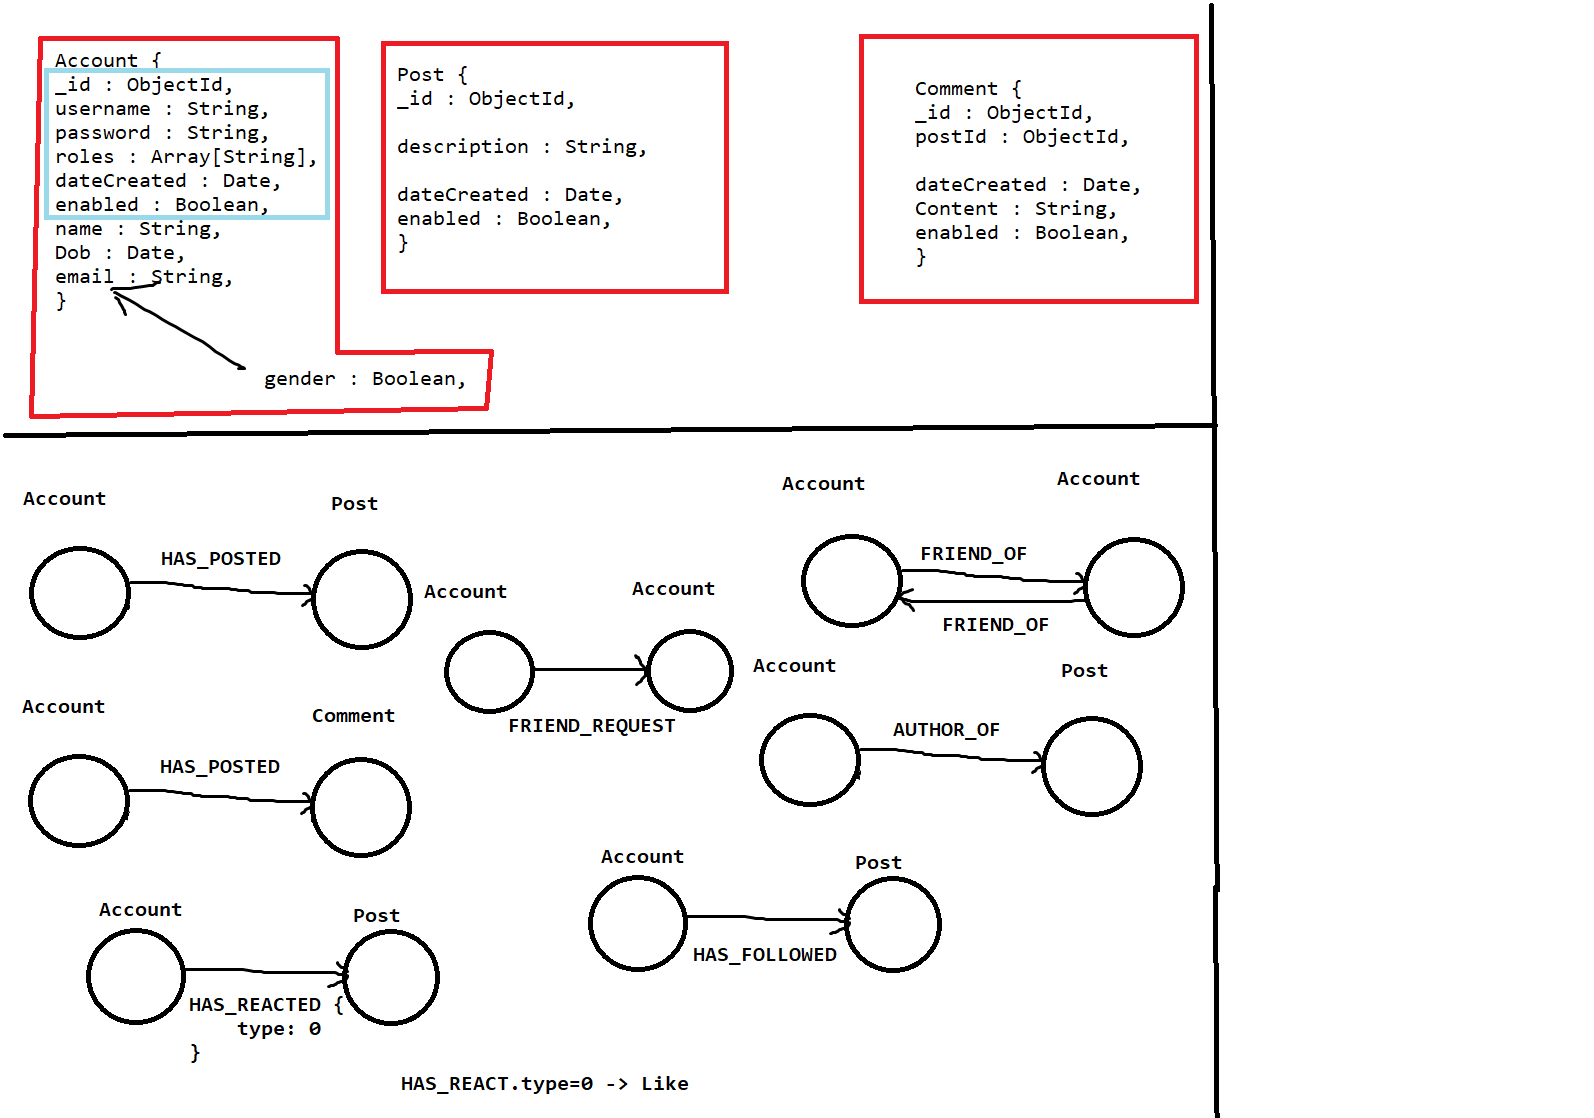
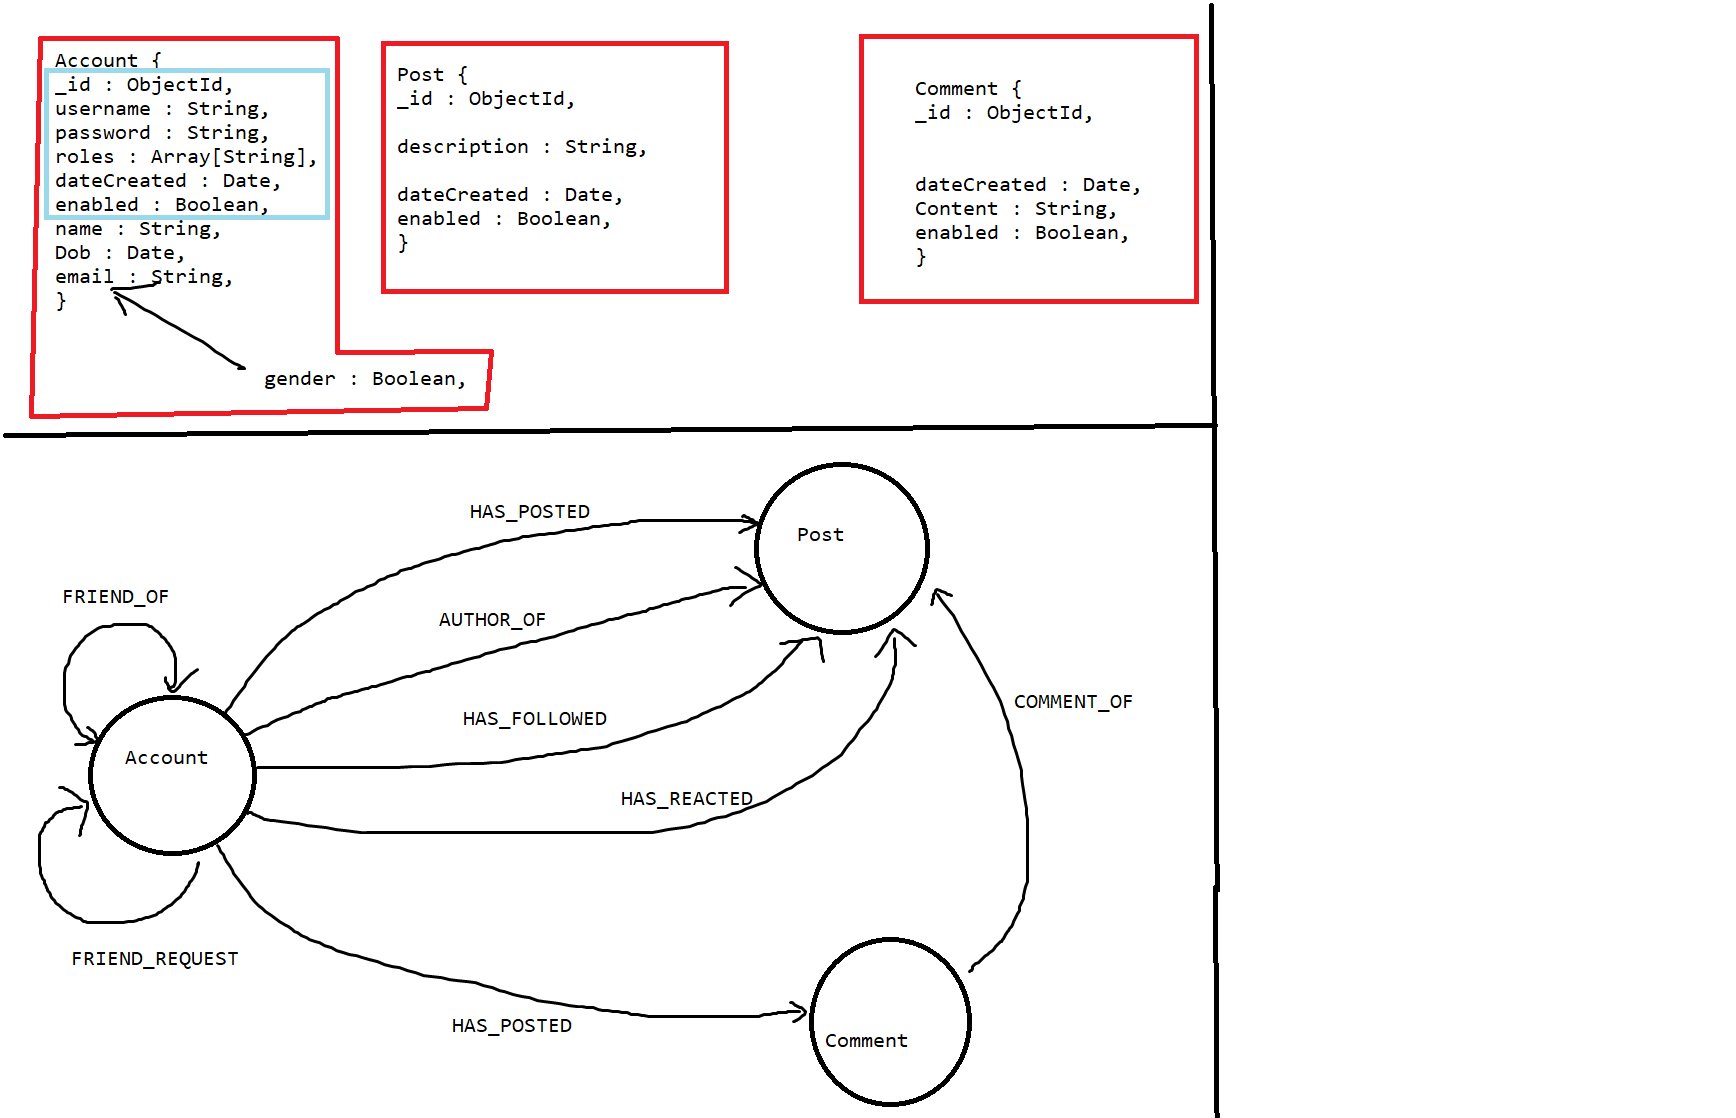
Changed dbcreation illustration

diff --git a/src/main/java/com/swd/db/documents/entities/Comment.java b/src/main/java/com/swd/db/documents/entities/Comment.java
@@ -1,0 +1,54 @@
+package com.swd.db.documents.entities;
+
+import org.bson.Document;
+import org.bson.types.ObjectId;
+
+import java.util.Date;
+
+public class Comment extends MongoEntityBaseClass {
+
+    protected Date dateCreated;
+    protected String content;
+    protected boolean enabled;
+
+    public Comment(ObjectId _id, Date dateCreated, String content, boolean enabled) {
+        super(_id);
+        this.dateCreated = dateCreated;
+        this.content = content;
+        this.enabled = enabled;
+    }
+
+    @Override
+    public Document ToDocument() {
+        Document doc = new Document();
+        doc.append("_id", _id);
+        doc.append("dateCreated", dateCreated);
+        doc.append("content", content);
+        doc.append("enabled", enabled);
+        return doc;
+    }
+
+    public Date getDateCreated() {
+        return dateCreated;
+    }
+
+    public void setDateCreated(Date dateCreated) {
+        this.dateCreated = dateCreated;
+    }
+
+    public String getContent() {
+        return content;
+    }
+
+    public void setContent(String content) {
+        this.content = content;
+    }
+
+    public boolean isEnabled() {
+        return enabled;
+    }
+
+    public void setEnabled(boolean enabled) {
+        this.enabled = enabled;
+    }
+}

diff --git a/src/main/java/com/swd/db/relationships/entities/Comment.java b/src/main/java/com/swd/db/relationships/entities/Comment.java
@@ -6,10 +6,9 @@ import org.neo4j.ogm.annotation.NodeEntity;
 import org.neo4j.ogm.annotation.Relationship;
 
 import java.util.List;
-import java.util.Set;
 
 @NodeEntity
-public class Post {
+public class Comment {
     @Id
     @GeneratedValue
     protected Long id;
@@ -27,15 +26,6 @@ public class Post {
     @Relationship(type = "HAS_POSTED", direction = Relationship.INCOMING)
     public Account posted_by;
 
-    @Relationship(type = "AUTHOR_OF", direction = Relationship.INCOMING)
-    public List<Account> authors;
-
-    @Relationship(type = "HAS_FOLLOWED", direction = Relationship.INCOMING)
-    public List<Account> followed_by;
-
-    @Relationship(type = "HAS_REACTED", direction = Relationship.INCOMING)
-    public List<Account> reacted_by;
-
-    @Relationship(type = "COMMENT_OF", direction = Relationship.INCOMING)
-    public List<Comment> comments;
+    @Relationship(type = "COMMENT_OF", direction = Relationship.OUTGOING)
+    public Post comment_of;
 }

diff --git a/src/main/java/com/swd/db/relationships/entities/Account.java b/src/main/java/com/swd/db/relationships/entities/Account.java
@@ -38,4 +38,13 @@ public class Account {
 
     @Relationship(type = "AUTHOR_OF", direction = Relationship.OUTGOING)
     public List<Post> authored_posts;
+
+    @Relationship(type = "HAS_FOLLOWED", direction = Relationship.OUTGOING)
+    public List<Post> followed_posts;
+
+    @Relationship(type = "HAS_REACTED", direction = Relationship.OUTGOING)
+    public List<Post> reacted_posts;
+
+    @Relationship(type = "HAS_POSTED", direction = Relationship.OUTGOING)
+    public List<Comment> posted_comments;
 }
